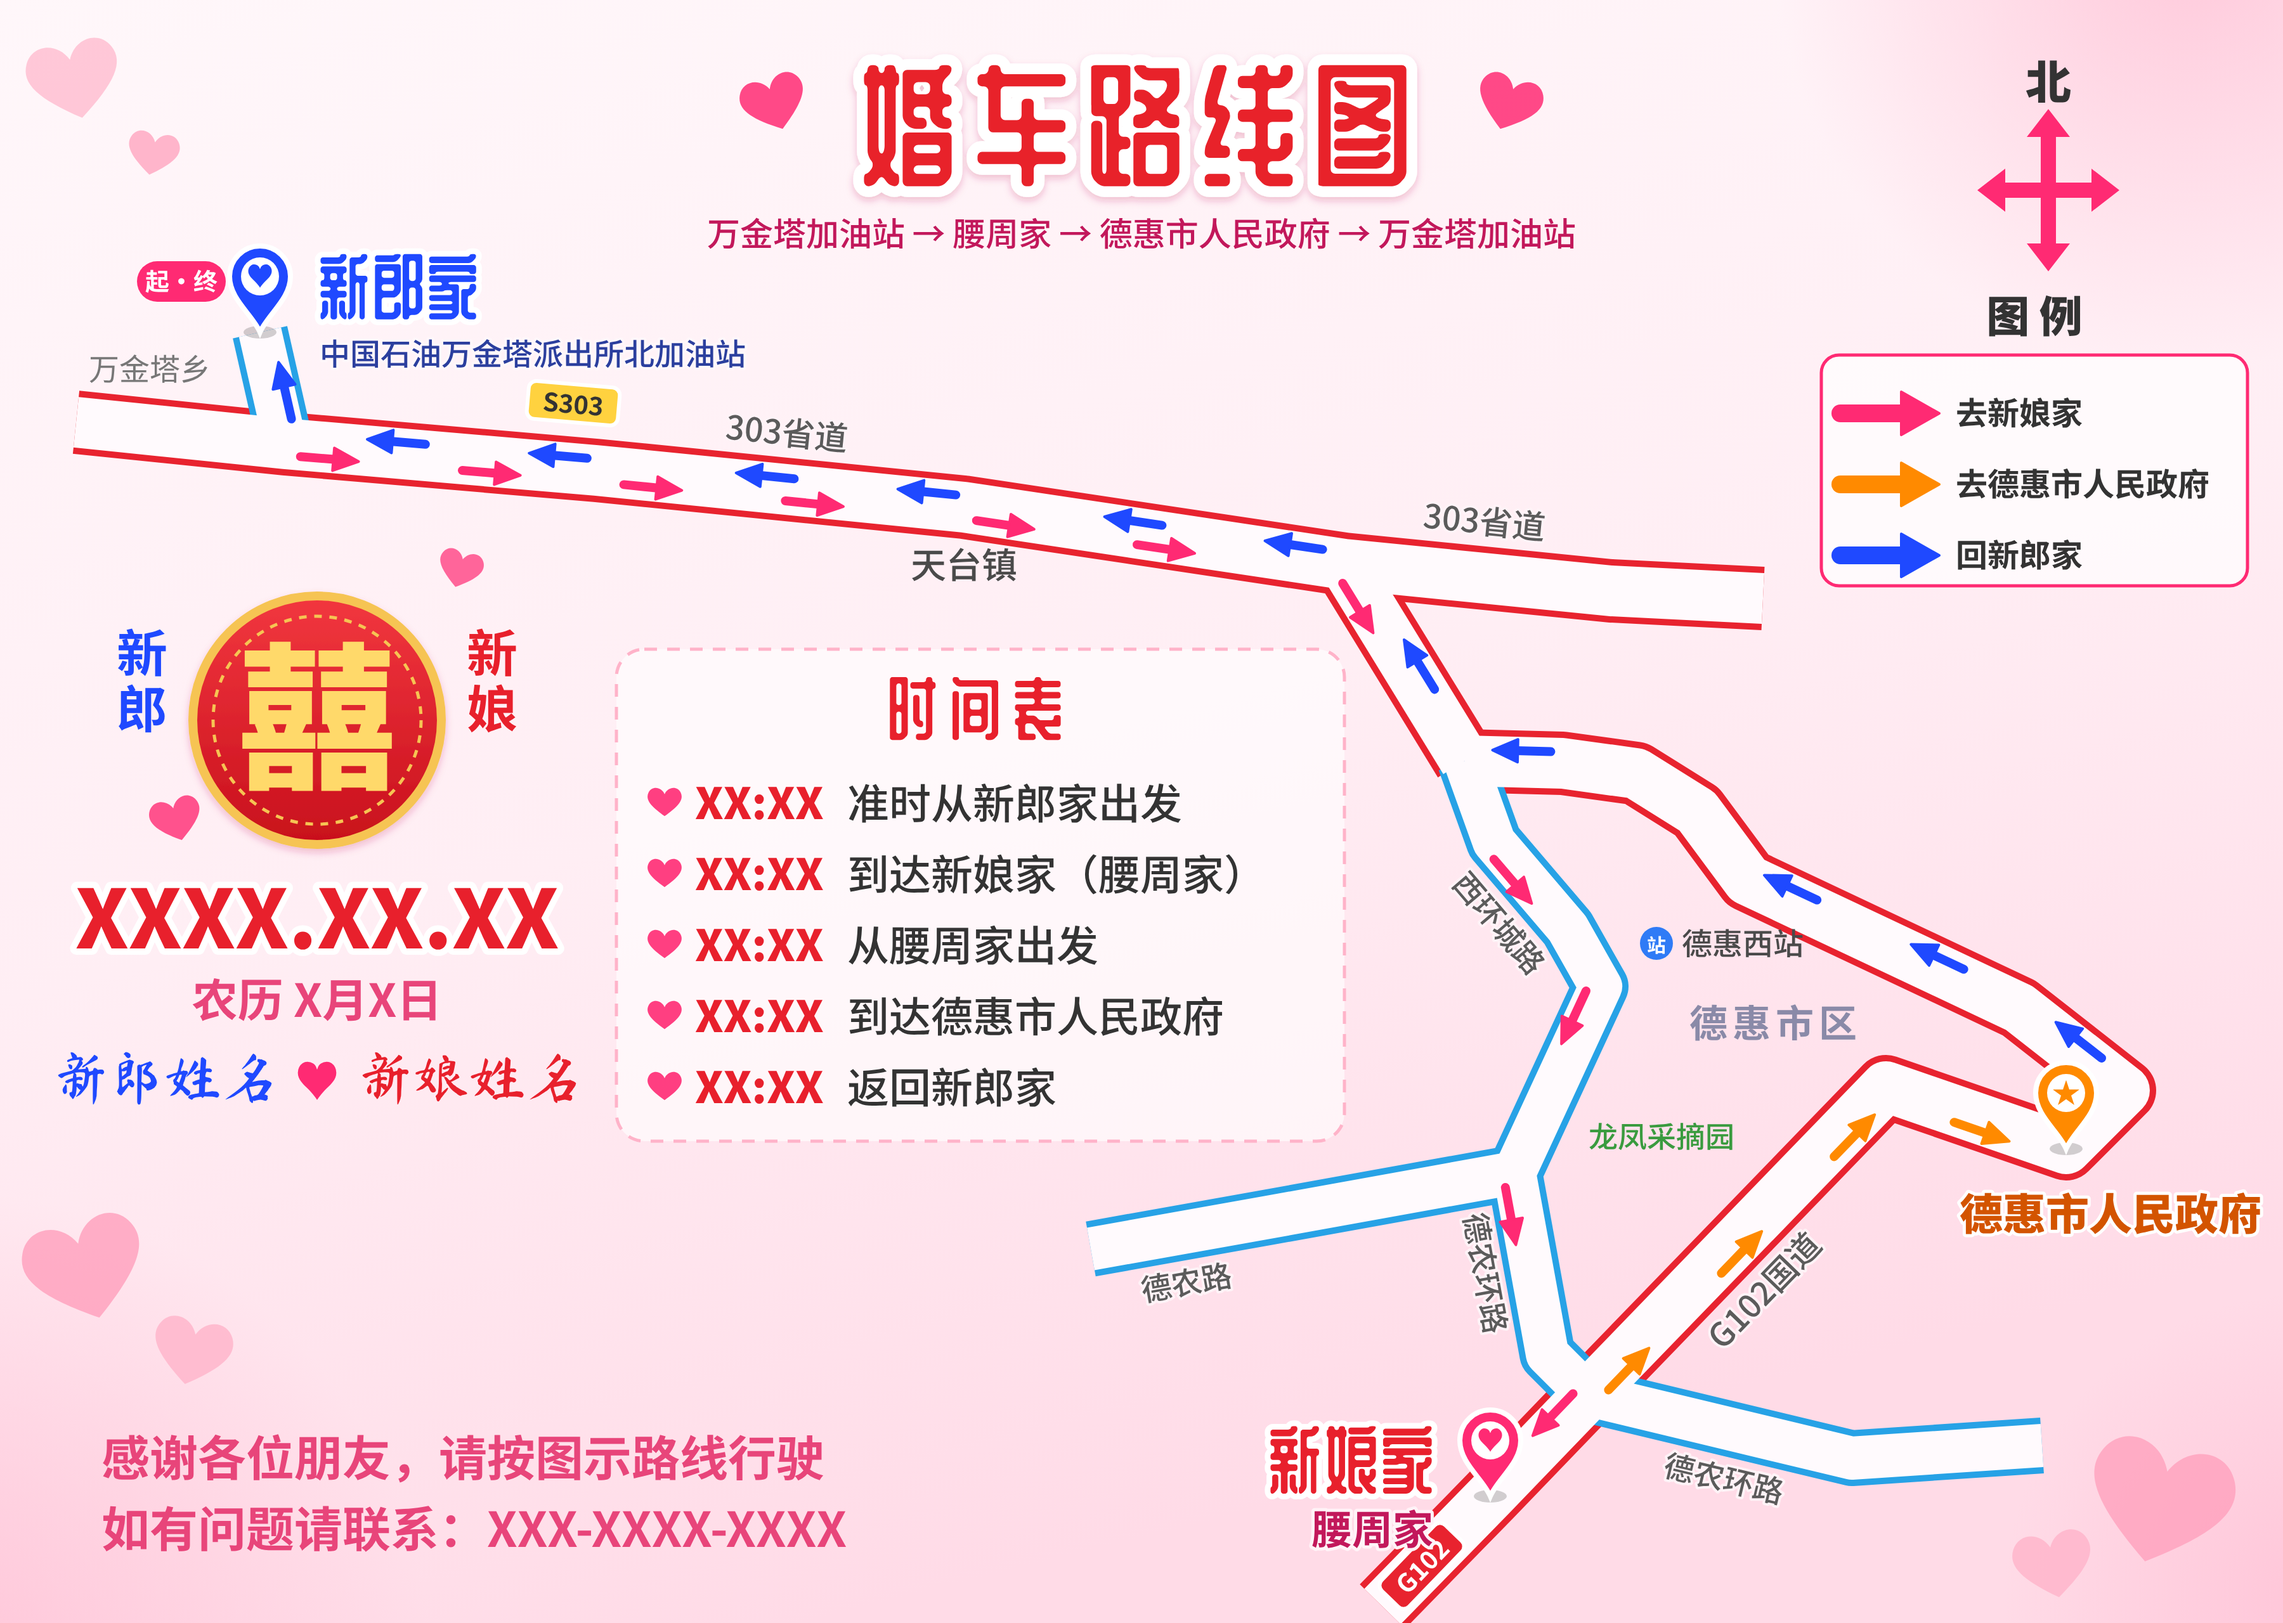
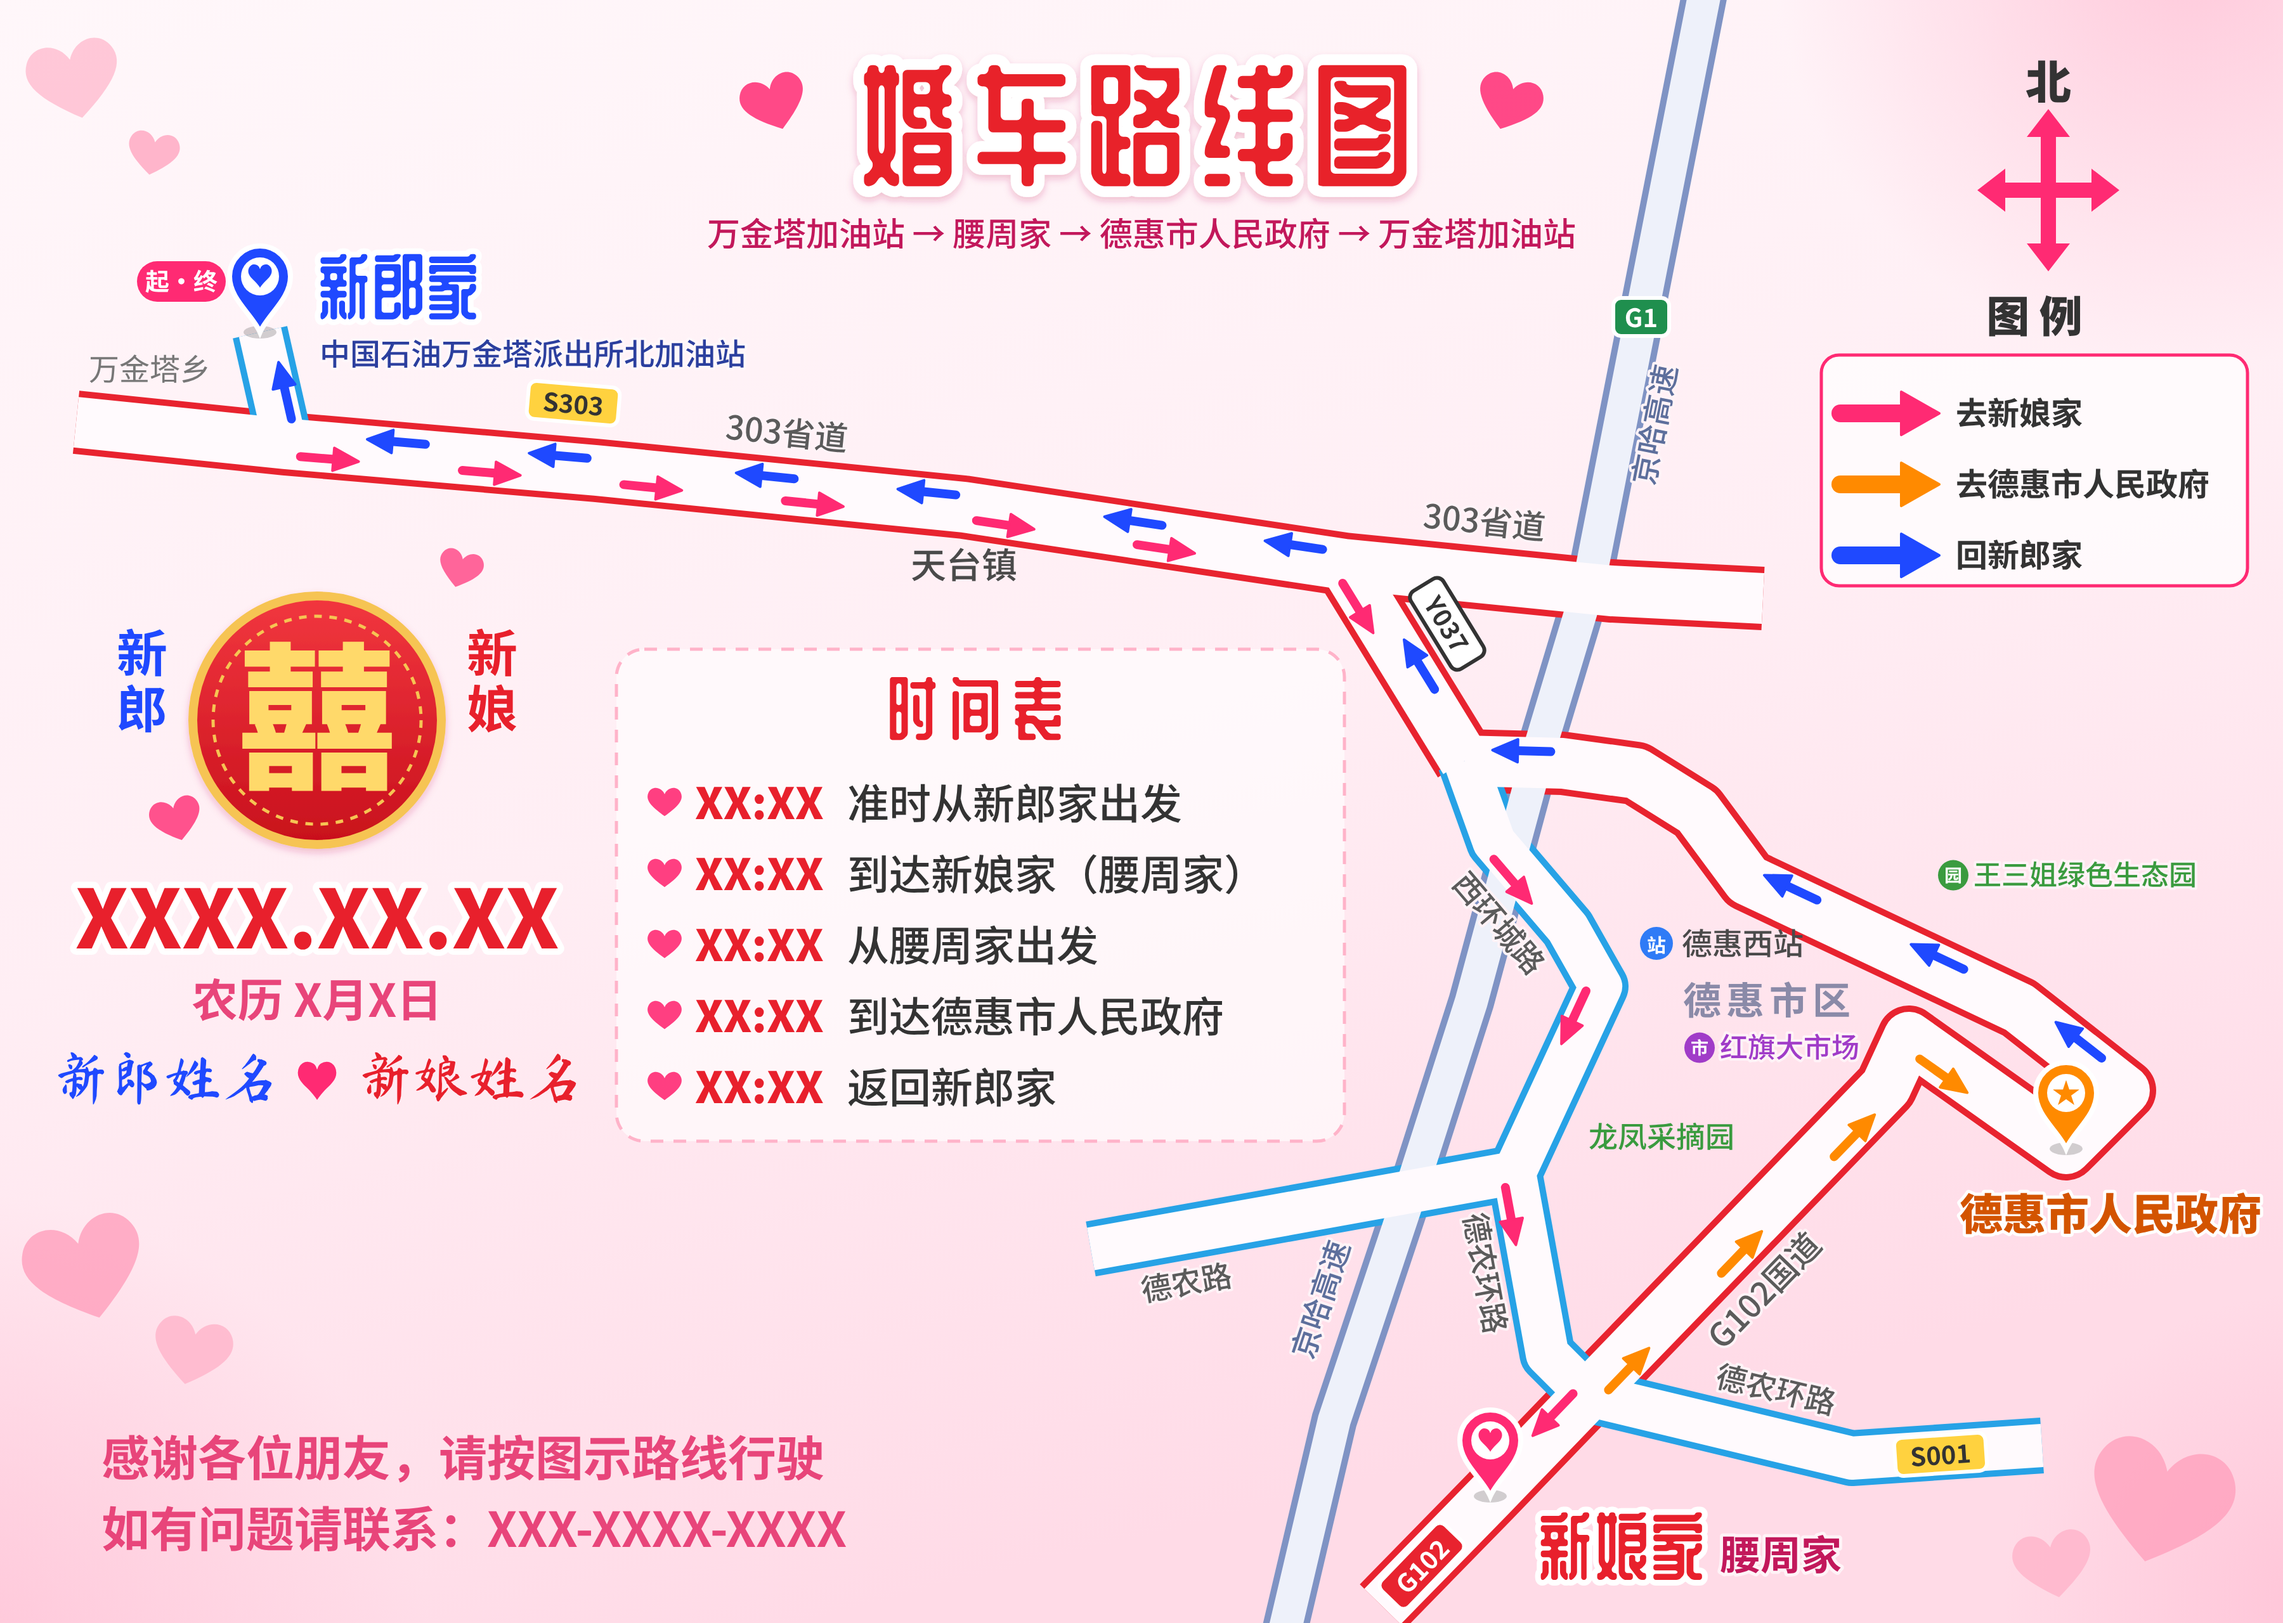
Add route details: G1 expressway, Y037/S001, market turn, landmarks
- Draw 京哈高速 (G1) as a reference road the route crosses twice
- Label Y037 (S303 to Dehui) and S001 (德农环路)
- Add the jog at 红旗大市场 where the route turns toward the government,
  and start the return leg at the government
- Add 王三姐绿色生态园 and 红旗大市场 landmarks; move the bride's label
  clear of the expressway

Claude-Session: https://claude.ai/code/session_014xWo2Dszvks45w7evtNpHL

diff --git a/wedding-route/make_route_map.py b/wedding-route/make_route_map.py
@@ -57,17 +57,22 @@ J2 = (1155, 600)           # 德惠西北路口
 J3 = (1194, 925)           # 德农路路口
 J4 = (1252, 1100)          # 德农环路 × G102
 BRIDE = (1175, 1180)       # 新娘家：腰周家
-K = (1487, 857)            # G102 转入城区
+K = (1487, 857)            # G102 在红旗大市场处转入城区
+K2 = (1505, 818)
 GOV = (1629, 906)          # 德惠市人民政府
 N1 = (1675, 860)
 
+G1 = [(1345, -10), (1252, 464), (1214, 590), (1160, 790), (1112, 940), (1052, 1120),
+      (1012, 1290)]      # 京哈高速，只作参照
 S303 = [(60, 333), P0, (470, 371), TIANTAI, J1, (1270, 466), (1390, 472)]
 WEST_RING = [J2, (1178, 664), (1236, 732), (1262, 778), J3, (1220, 1068), J4]
 G102 = [(1090, 1267), BRIDE, J4, K]
-CITY = [K, GOV, N1, (1592, 795), (1378, 694), (1338, 640), (1290, 610), (1232, 602), J2]
+CITY = [K, K2, GOV, N1, (1592, 795), (1378, 694), (1338, 640), (1290, 610), (1232, 602), J2]
 
 MAJOR, MINOR = (RED_ROAD, 40), (BLUE_ROAD, 34)
+HIGHWAY = ("#7f93c4", 26)
 ROADS = [
+    (G1, HIGHWAY),                                     # 先画，路线道路从上方跨过
     (S303, MAJOR),
     ([J1, J2], MAJOR),
     (G102 + CITY[1:], MAJOR),                         # G102 进城后接城区道路
@@ -78,8 +83,8 @@ ROADS = [
 ]
 
 LEG_TO_BRIDE = [HOME, P0, (470, 371), TIANTAI, J1, J2] + WEST_RING[1:] + [BRIDE]
-LEG_TO_GOV = [BRIDE, J4, K, GOV]
-LEG_HOME = CITY[1:] + [J1, TIANTAI, (470, 371), P0, HOME]
+LEG_TO_GOV = [BRIDE, J4, K, K2, GOV]
+LEG_HOME = CITY[CITY.index(GOV):] + [J1, TIANTAI, (470, 371), P0, HOME]
 LEGS = [(LEG_TO_BRIDE, PINK, 30), (LEG_TO_GOV, ORANGE, 40), (LEG_HOME, BLUE, 70)]
 
 
@@ -164,12 +169,19 @@ def road_label(a, b, s, side=1, gap=40, size=24, t=0.5, fill="#5b5b5b"):
                 halo="#fff3f7")
 
 
-def shield(x, y, label, bg, fg, rotate=0):
+def shield(x, y, label, bg, fg, rotate=0, border="#ffffff"):
     w = 14 * len(label) + 16
     tr = f' transform="rotate({rotate:.1f} {x} {y})"' if rotate else ""
     return (f'<g{tr}><rect x="{x - w / 2:.1f}" y="{y - 15}" width="{w}" height="30" rx="6" '
-            f'fill="{bg}" stroke="#ffffff" stroke-width="3"/>'
+            f'fill="{bg}" stroke="{border}" stroke-width="3"/>'
             + text(x, y + 8, label, 20, fg, SANS, 700) + "</g>")
+
+
+def poi(x, y, label, color, glyph, size=22):
+    """地图上的小地标：彩色圆点图标 + 文字，(x, y) 为文字基线起点。"""
+    return (f'<circle cx="{x - 16}" cy="{y - size * 0.35:.1f}" r="12" fill="{color}"/>'
+            + text(x - 16, y - size * 0.35 + 5, glyph, 14, "#fff", SANS, 700)
+            + text(x, y, label, size, color, SANS, 500, anchor="start", halo="#fff3f7"))
 
 
 def pin(x, y, color, inner="♥"):
@@ -215,7 +227,8 @@ def build_svg():
         o.append(f'<polyline points="{pts_attr(pts)}" fill="none" stroke="{color}" '
                  f'stroke-width="{width + 10}" stroke-linejoin="round" stroke-linecap="butt"/>')
     for pts, (color, width) in ROADS:
-        o.append(f'<polyline points="{pts_attr(pts)}" fill="none" stroke="{ROAD_FILL}" '
+        fill = "#eef1fa" if pts is G1 else ROAD_FILL
+        o.append(f'<polyline points="{pts_attr(pts)}" fill="none" stroke="{fill}" '
                  f'stroke-width="{width}" stroke-linejoin="round" stroke-linecap="butt"/>')
 
     # 路名
@@ -224,7 +237,14 @@ def build_svg():
     o.append(road_label(J1, (1270, 466), "303省道", side=-1, gap=44, size=26))
     o.append(road_label((1178, 664), (1236, 732), "西环城路", side=1, gap=42))
     o.append(road_label(J3, (1220, 1068), "德农环路", side=1, gap=44, t=0.45))
-    o.append(road_label(J4, (1460, 1150), "德农环路", side=1, gap=40, t=0.55))
+    o.append(road_label(J4, (1460, 1150), "德农环路", side=-1, gap=38, t=0.66))
+    o.append(shield(1530, 1147, "S001", "#ffd23f", "#333", rotate=-3.8))
+    o.append(shield(1141, 492, "Y037", "#ffffff", "#333", rotate=58.5, border="#333"))
+    o.append(shield(1294, 250, "G1", "#1f8f4e", "#fff"))
+    o.append(road_label((1345, -10), (1252, 464), "京哈高速", side=-1, gap=34, t=0.7,
+                        fill="#5d6f9c"))
+    o.append(road_label((1112, 940), (1052, 1120), "京哈高速", side=1, gap=34,
+                        fill="#5d6f9c"))
     o.append(road_label((1000, 960), (860, 985), "德农路", side=-1, gap=40))
     o.append(road_label(J4, K, "G102国道", side=1, gap=46, size=26, t=0.48))
     o.append(shield(1121, 1235, "G102", "#e8232f", "#fff", rotate=-46))
@@ -236,7 +256,9 @@ def build_svg():
              + text(1306, 751, "站", 15, "#fff", SANS, 700))
     o.append(text(1326, 753, "德惠西站", 24, TEXT, SANS, 500, anchor="start"))
     o.append(text(1310, 905, "龙凤采摘园", 23, "#3a9b3f", SANS, 500))
-    o.append(text(1400, 818, "德惠市区", 30, "#8a8aa8", SANS, 700, extra=' letter-spacing="4"'))
+    o.append(text(1395, 800, "德惠市区", 30, "#8a8aa8", SANS, 700, extra=' letter-spacing="4"'))
+    o.append(poi(1356, 834, "红旗大市场", "#a03cc8", "市"))
+    o.append(poi(1556, 698, "王三姐绿色生态园", "#3a9b3f", "园"))
 
     # 行车箭头
     for pts, color, phase in LEGS:
@@ -252,9 +274,9 @@ def build_svg():
              + text(143, 229, "起·终", 19, "#fff", SANS, 700))
 
     o.append(pin(*BRIDE, PINK))
-    o.append(text(1132, 1172, "新娘家", 58, "#e8202c", DISPLAY, 400, anchor="end",
+    o.append(text(1212, 1240, "新娘家", 58, "#e8202c", DISPLAY, 400, anchor="start",
                   halo="#ffffff"))
-    o.append(text(1130, 1218, "腰周家", 32, "#c2185b", SANS, 700, anchor="end",
+    o.append(text(1356, 1238, "腰周家", 32, "#c2185b", SANS, 700, anchor="start",
                   halo="#fff3f7"))
 
     o.append(pin(*GOV, ORANGE, "★"))
